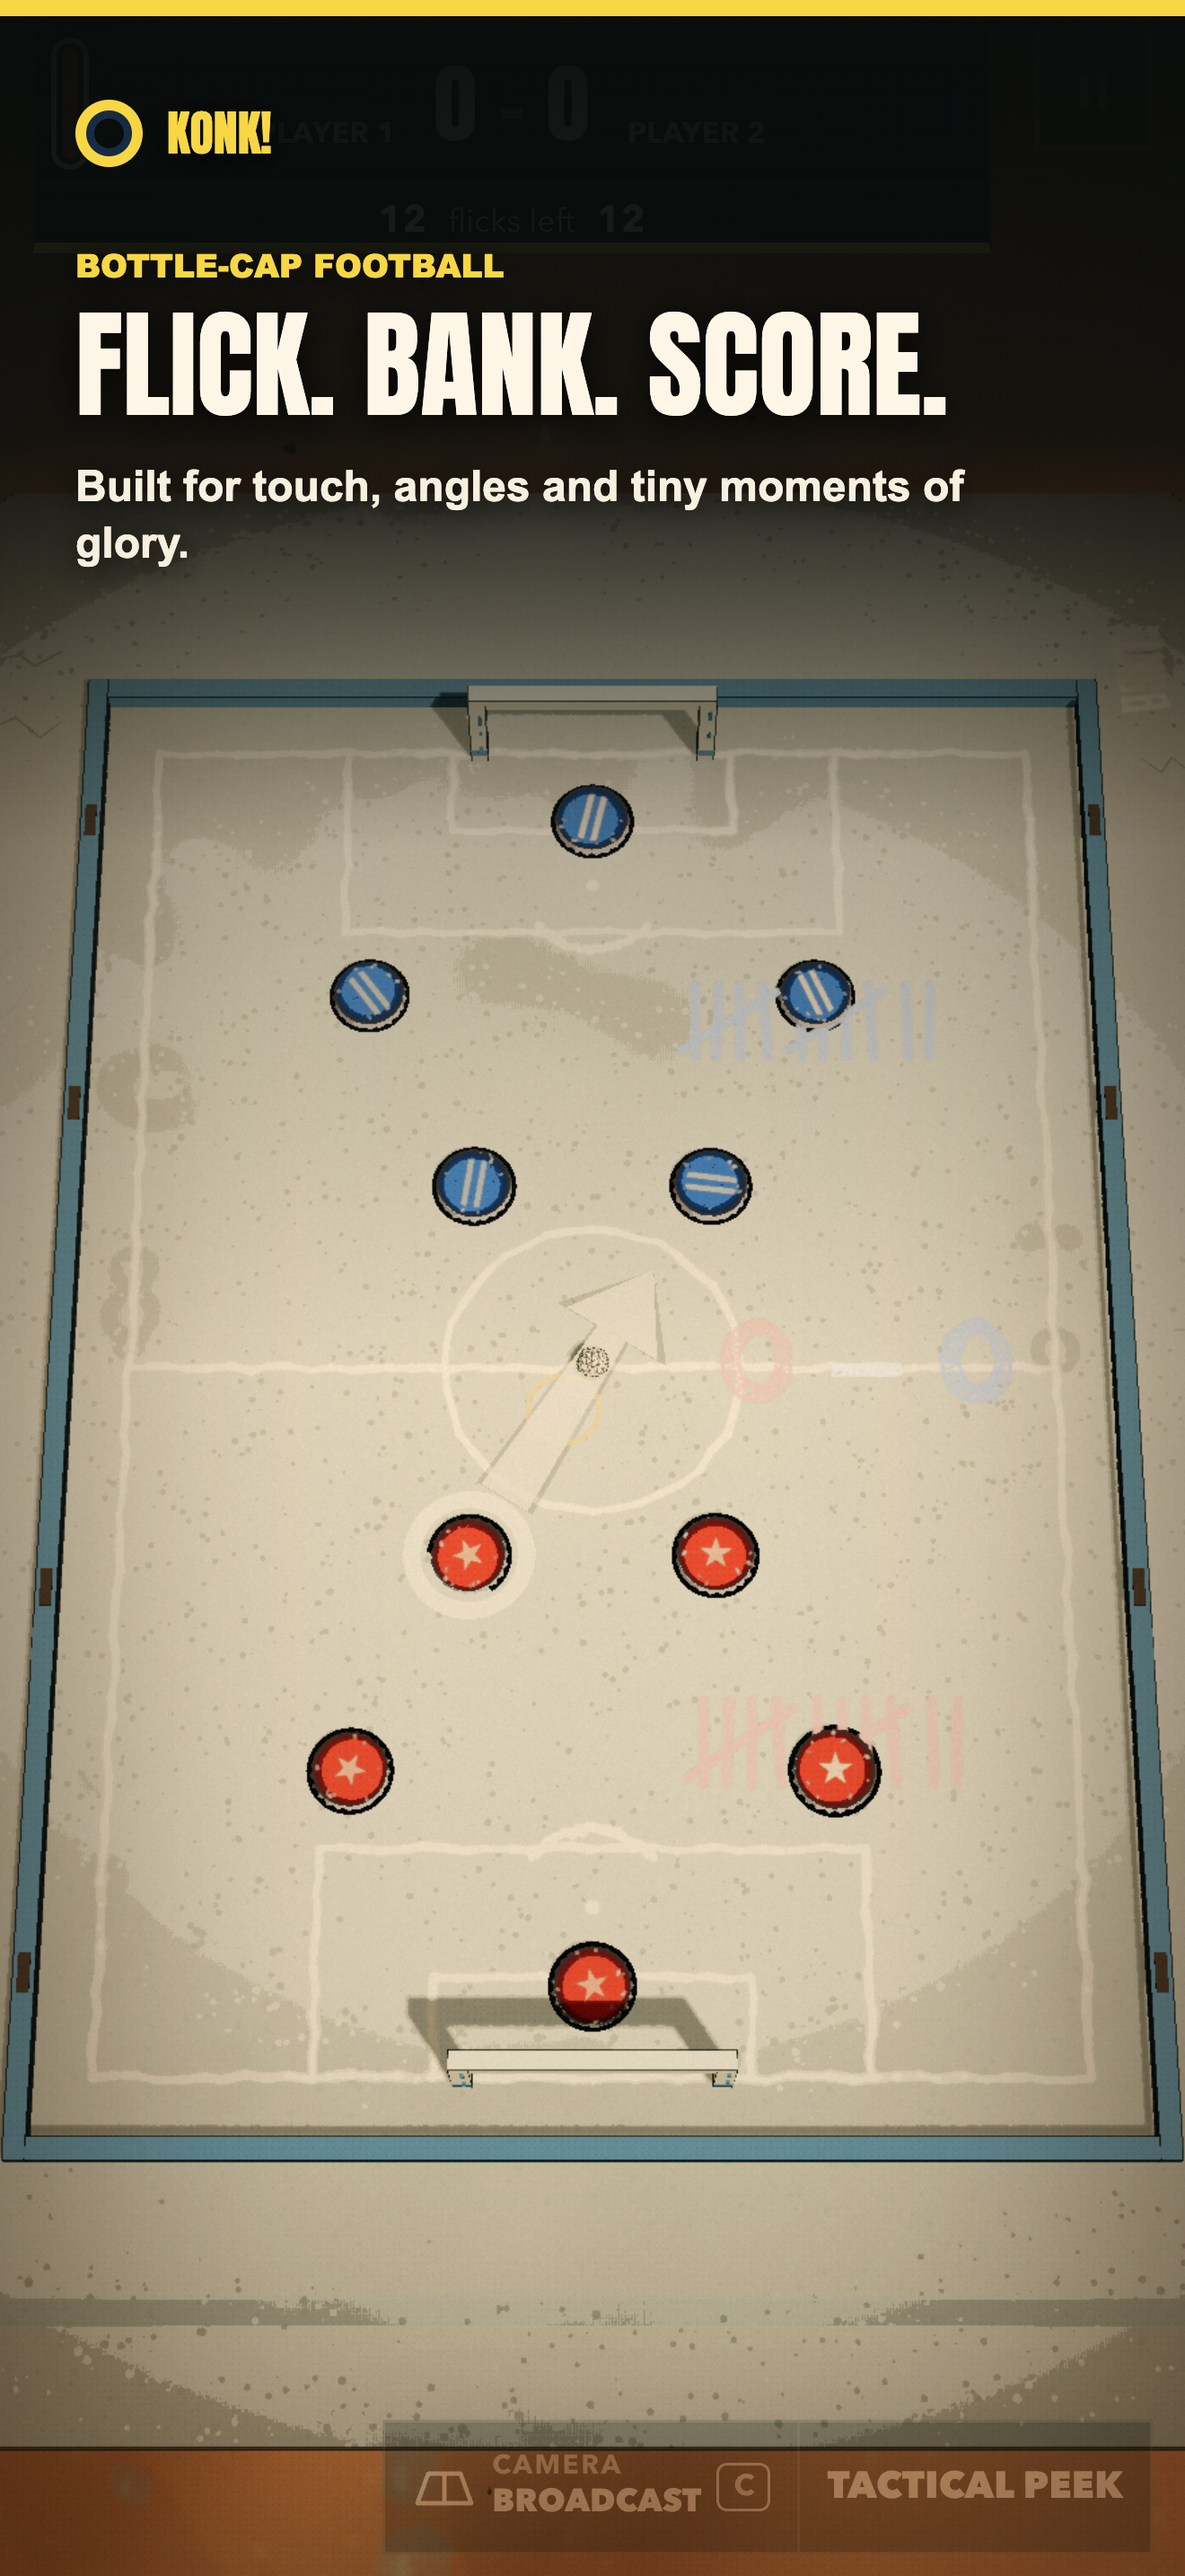
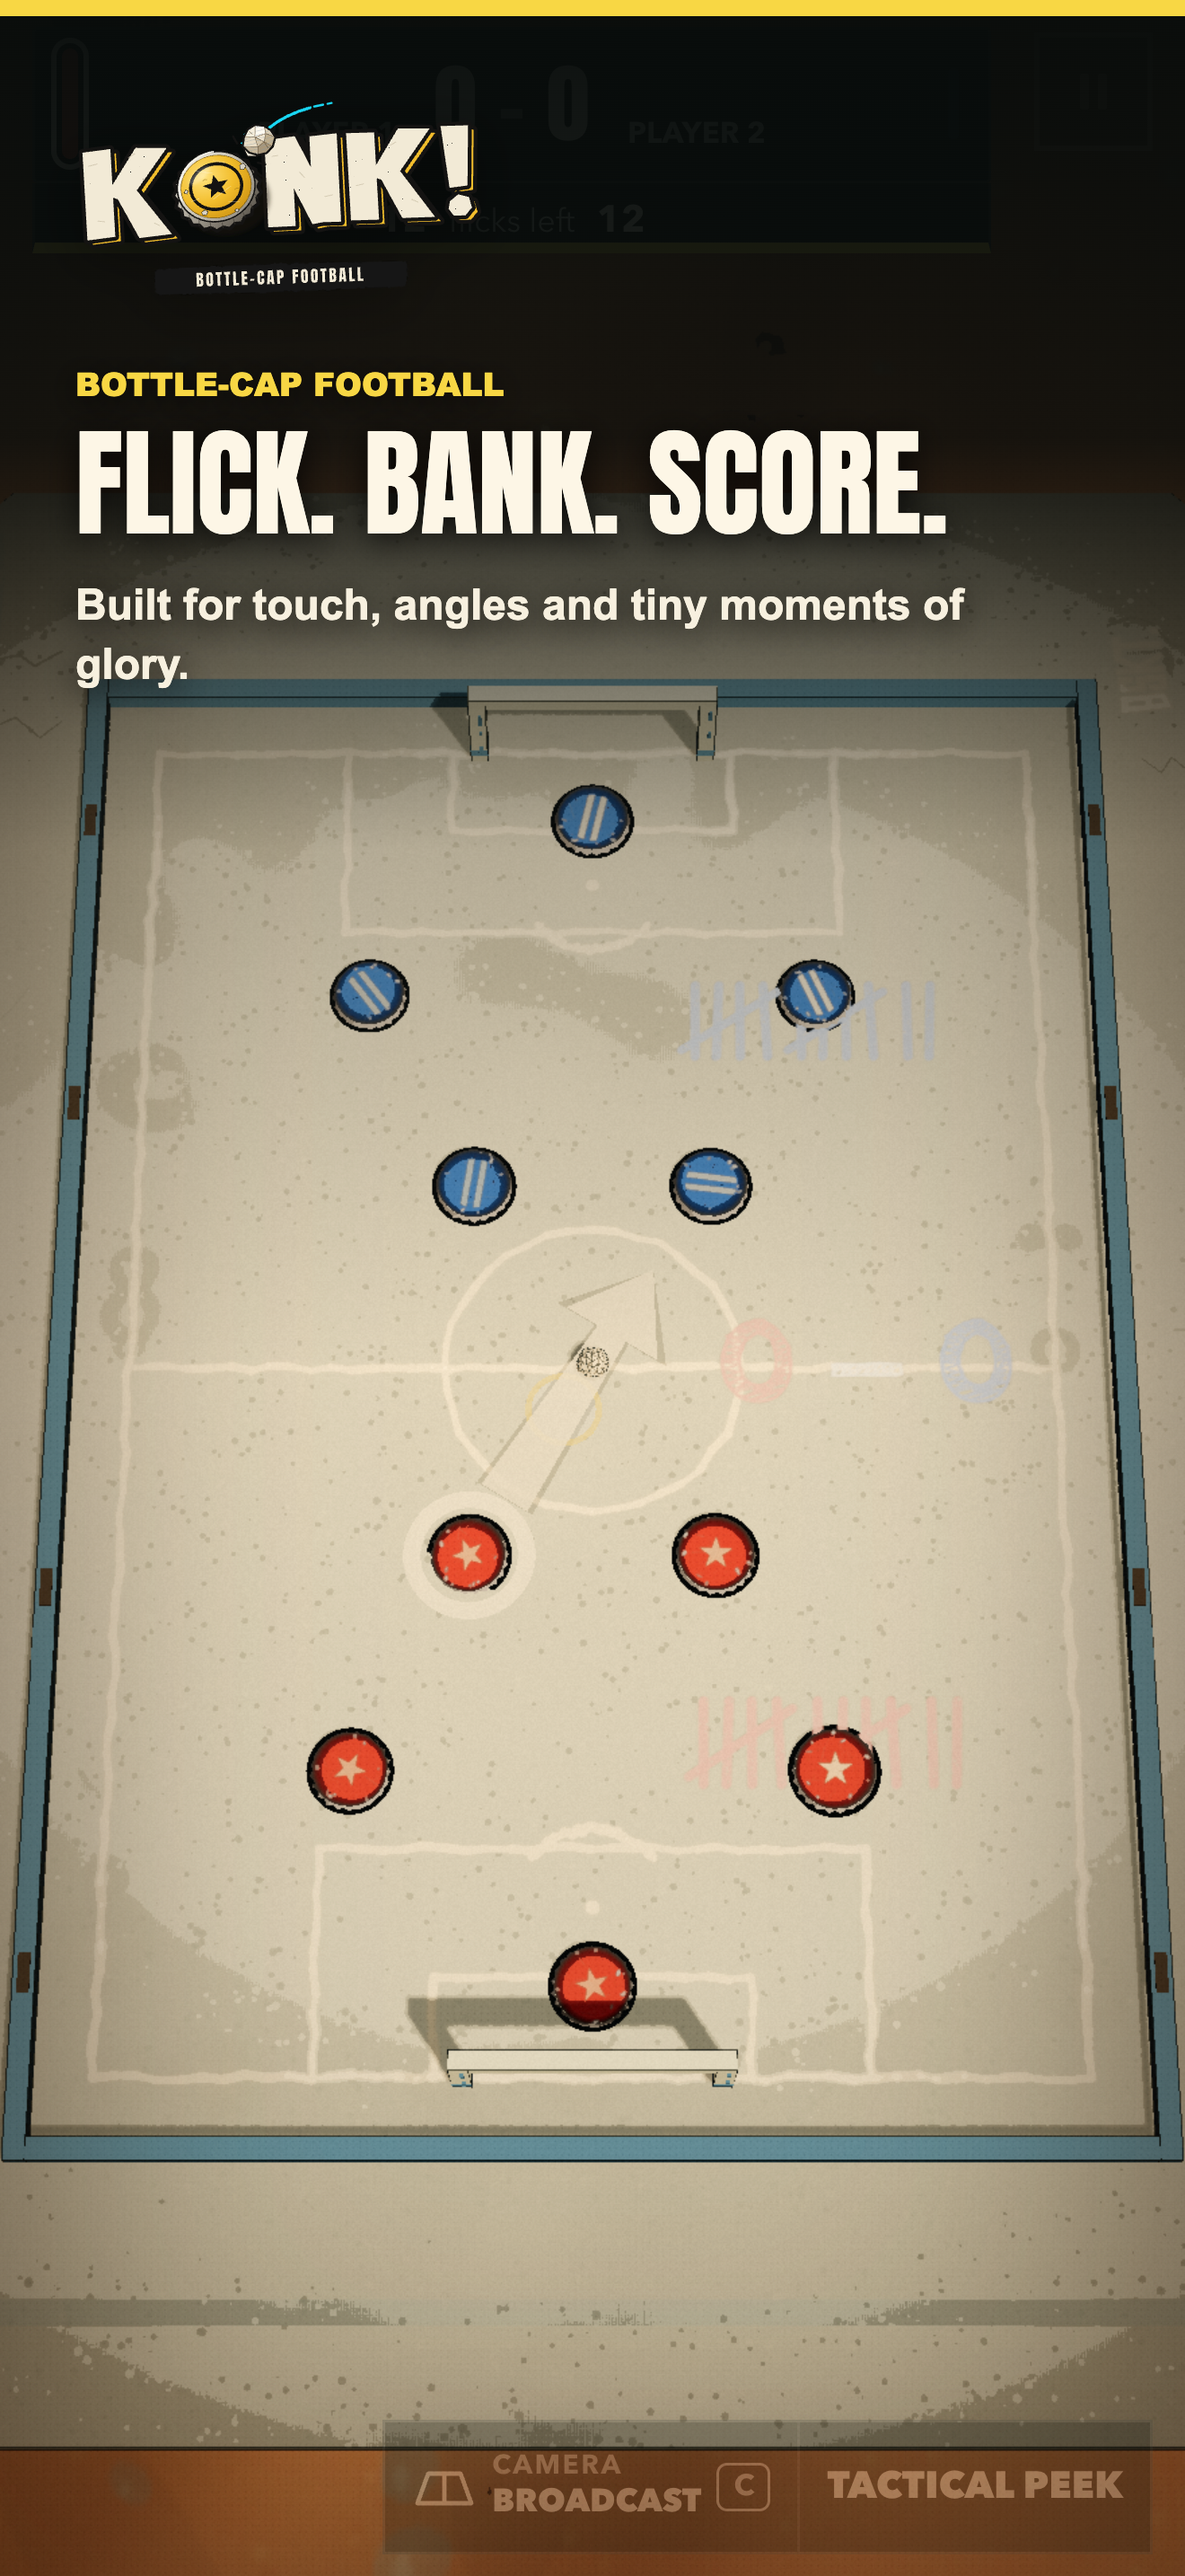
feat: add branded iPad App Store screenshots

Changed region(s): [[0.0621, 0.031, 0.8076, 0.2793]]

diff --git a/docs/app-store/screenshots/README.md b/docs/app-store/screenshots/README.md
@@ -1,8 +1,8 @@
 # KONK! App Store Screenshots
 
-Five iPhone 6.9-inch portrait screenshots at 1320 × 2868. Each uses a live capture
-from the shipped game and a restrained KONK editorial layer. Raw captures are kept
-in `sources/` for review.
+Five screenshots are provided for each supported storefront size. Every image uses
+a live capture from the shipped game, the actual KONK logo and a restrained
+editorial layer. Intermediate device captures are discarded after composition.
 
 Regenerate while the game is served on port 4182:
 
@@ -17,6 +17,10 @@ Some existing App Store Connect records expose the iPhone 6.5-inch slot rather
 than the 6.9-inch slot. Use the matching five files in `iphone-6.5/` for that
 slot. They are 1284 × 2778, one of Apple's accepted portrait dimensions, and
 keep the same numbered upload order as the 6.9-inch originals.
+
+Use the five files in `ipad-12.9/` for the iPad 12.9-inch display slot. They are
+native 2048 × 2732 captures with a tablet-specific composition. Upload every set
+in filename order, from `01` through `05`.
 
 Reference direction was informed by Mobbin examples that prioritize full-bleed
 gameplay, one short promise per frame and visible variety across the set:
